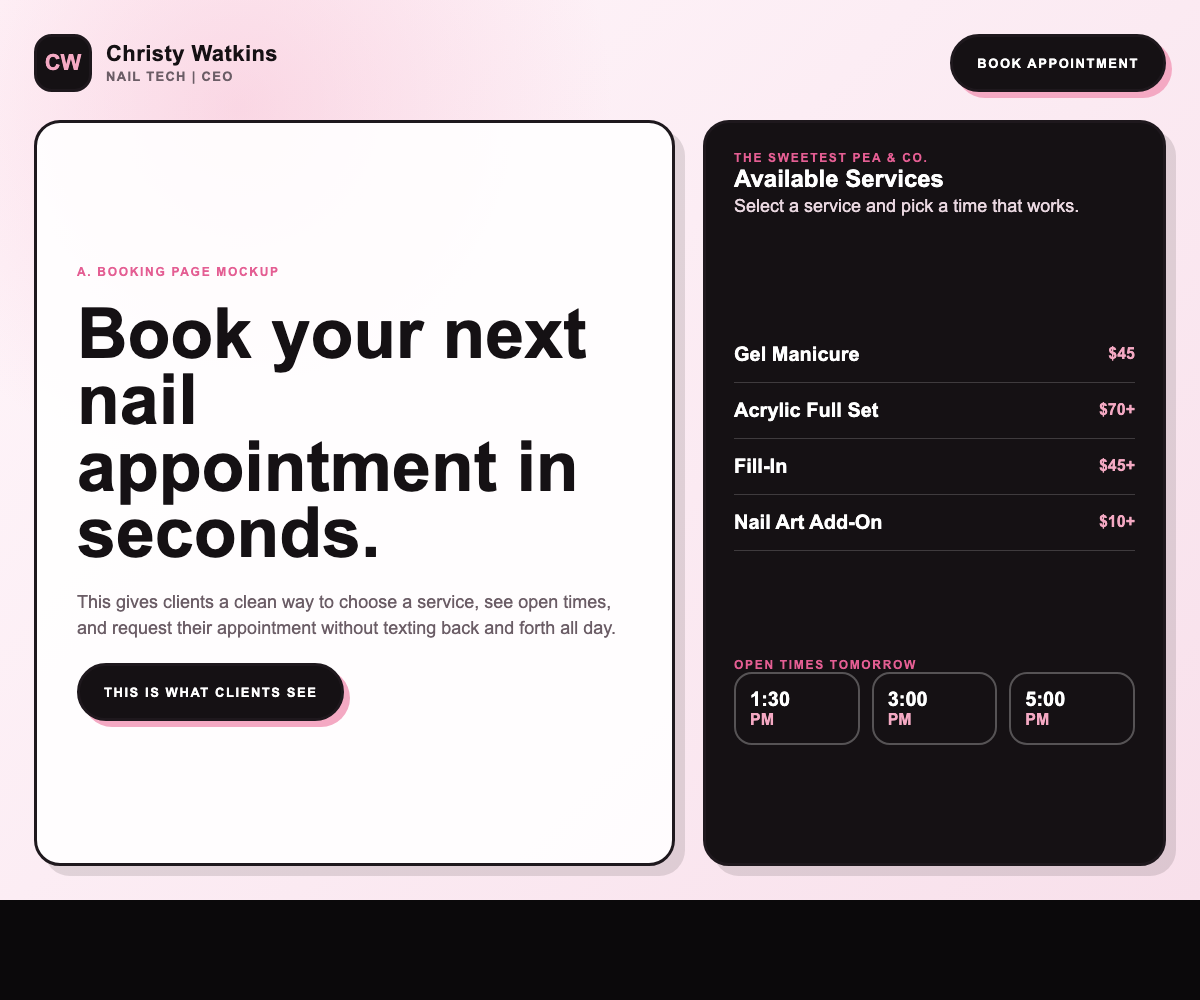
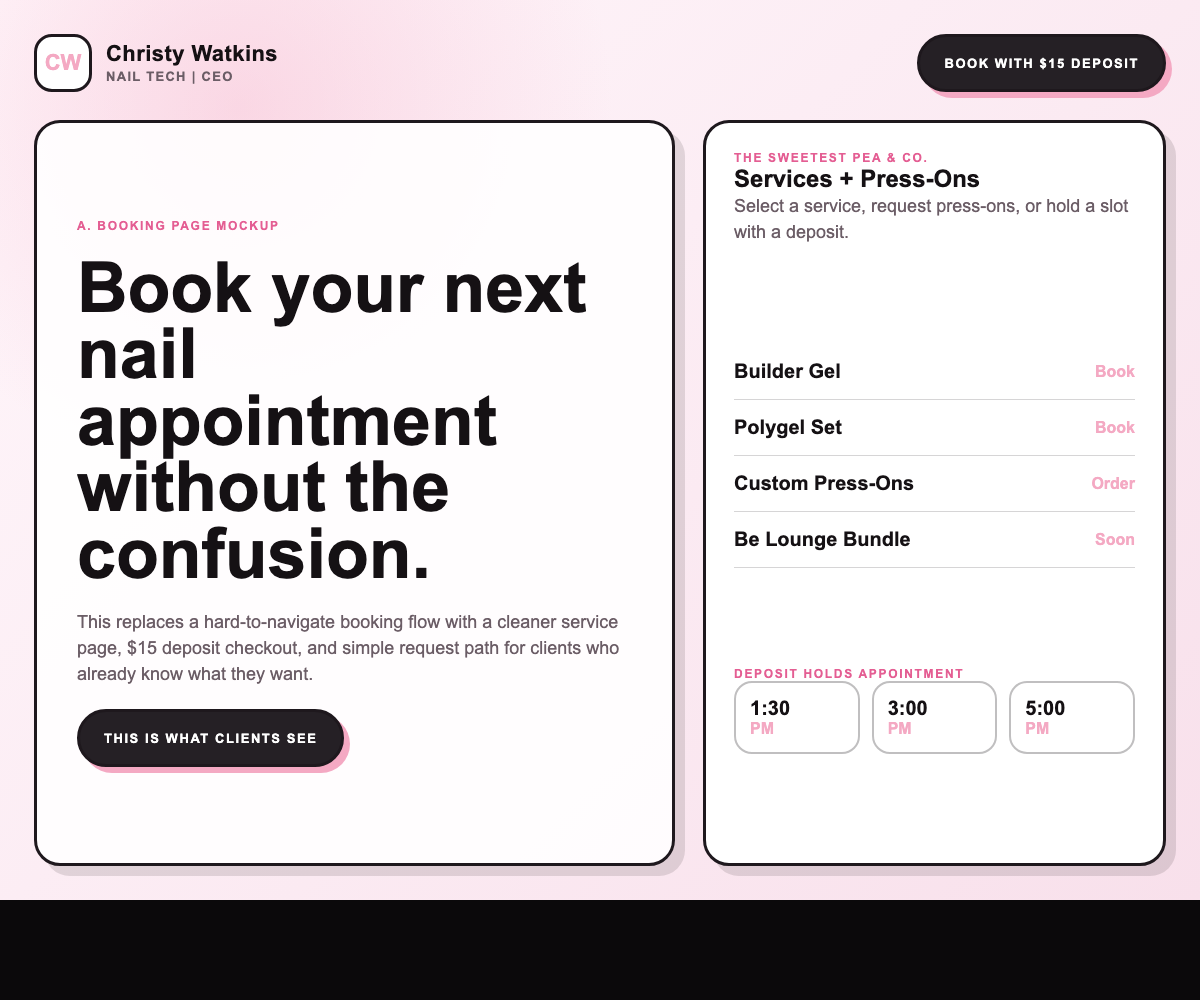
Refine Christy nail mockups for real offer

diff --git a/design-options/christy-nail-client-mockups.html b/design-options/christy-nail-client-mockups.html
@@ -15,6 +15,8 @@
         --paper: #fff8fb;
         --line: #1e181d;
         --muted: #6b5d66;
+        --powder: #d8c8ff;
+        --cream: #fffdf9;
       }
 
       * {
@@ -79,7 +81,7 @@
         height: 58px;
         border: 3px solid var(--line);
         border-radius: 18px;
-        background: var(--ink);
+        background: var(--white);
         color: var(--pink);
         font-size: 22px;
         font-weight: 900;
@@ -109,7 +111,7 @@
         padding: 0 24px;
         border: 3px solid var(--line);
         border-radius: 999px;
-        background: var(--ink);
+        background: var(--charcoal);
         color: var(--white);
         box-shadow: 6px 6px 0 var(--pink);
         font-size: 13px;
@@ -162,12 +164,12 @@
         display: grid;
         gap: 18px;
         padding: 28px;
-        background: var(--ink);
-        color: var(--white);
+        background: var(--white);
+        color: var(--ink);
       }
 
       .service-board p {
-        color: #ead8e1;
+        color: var(--muted);
       }
 
       .service-row,
@@ -177,7 +179,7 @@
         gap: 18px;
         align-items: center;
         padding: 16px 0;
-        border-bottom: 1px solid rgba(255, 255, 255, 0.18);
+        border-bottom: 1px solid rgba(30, 24, 29, 0.18);
       }
 
       .service-row strong,
@@ -200,7 +202,7 @@
       .slot {
         display: block;
         padding: 14px;
-        border: 2px solid rgba(255, 255, 255, 0.28);
+        border: 2px solid rgba(30, 24, 29, 0.28);
         border-radius: 18px;
       }
 
@@ -216,7 +218,8 @@
         padding: 24px;
         border: 5px solid var(--line);
         border-radius: 46px;
-        background: var(--charcoal);
+        background: #fdf7fb;
+        color: var(--ink);
         color: var(--white);
         box-shadow: 18px 18px 0 rgba(21, 17, 20, 0.22);
       }
@@ -226,7 +229,7 @@
         height: 24px;
         margin: 0 auto 28px;
         border-radius: 999px;
-        background: #0b090b;
+        background: var(--charcoal);
       }
 
       .chat {
@@ -250,7 +253,7 @@
 
       .bubble.ai {
         justify-self: end;
-        background: var(--pink);
+        background: var(--powder);
         color: var(--ink);
         font-weight: 800;
       }
@@ -359,22 +362,22 @@
     <section class="mockup booking">
       <header>
         <div class="brand">
-          <div class="brand-mark">CW</div>
+        <div class="brand-mark">CW</div>
           <div>
             <strong>Christy Watkins</strong>
             <span>Nail Tech | CEO</span>
           </div>
         </div>
-        <div class="button">Book Appointment</div>
+        <div class="button">Book With $15 Deposit</div>
       </header>
 
       <main class="booking-hero">
         <section class="booking-copy panel">
           <div class="eyebrow">A. Booking Page Mockup</div>
-          <h1>Book your next nail appointment in seconds.</h1>
+          <h1>Book your next nail appointment without the confusion.</h1>
           <p>
-            This gives clients a clean way to choose a service, see open times, and request their
-            appointment without texting back and forth all day.
+            This replaces a hard-to-navigate booking flow with a cleaner service page, $15 deposit
+            checkout, and simple request path for clients who already know what they want.
           </p>
           <div class="button">This is what clients see</div>
         </section>
@@ -382,17 +385,17 @@
         <aside class="service-board panel">
           <div>
             <div class="eyebrow">The Sweetest Pea & Co.</div>
-            <h2>Available Services</h2>
-            <p>Select a service and pick a time that works.</p>
+            <h2>Services + Press-Ons</h2>
+            <p>Select a service, request press-ons, or hold a slot with a deposit.</p>
           </div>
           <div>
-            <div class="service-row"><strong>Gel Manicure</strong><span>$45</span></div>
-            <div class="service-row"><strong>Acrylic Full Set</strong><span>$70+</span></div>
-            <div class="service-row"><strong>Fill-In</strong><span>$45+</span></div>
-            <div class="service-row"><strong>Nail Art Add-On</strong><span>$10+</span></div>
+            <div class="service-row"><strong>Builder Gel</strong><span>Book</span></div>
+            <div class="service-row"><strong>Polygel Set</strong><span>Book</span></div>
+            <div class="service-row"><strong>Custom Press-Ons</strong><span>Order</span></div>
+            <div class="service-row"><strong>Be Lounge Bundle</strong><span>Soon</span></div>
           </div>
           <div>
-            <div class="eyebrow">Open Times Tomorrow</div>
+            <div class="eyebrow">Deposit Holds Appointment</div>
             <div class="slots">
               <div class="slot"><strong>1:30</strong><br /><span>PM</span></div>
               <div class="slot"><strong>3:00</strong><br /><span>PM</span></div>
@@ -408,25 +411,25 @@
         <div class="phone-top"></div>
         <div class="chat">
           <div class="bubble client">Hi, do you have availability tomorrow?</div>
-          <div class="bubble ai">Yes! Christy has 3:00 PM and 5:00 PM open tomorrow. Which one works best?</div>
-          <div class="bubble client">5 works. Can I do acrylic with a simple design?</div>
-          <div class="bubble ai">Absolutely. I can hold 5:00 PM for an acrylic full set with simple nail art. Want me to book it?</div>
+          <div class="bubble ai">Yes! Christy has 3:00 PM and 5:00 PM open tomorrow. Builder Gel and Polygel are both available.</div>
+          <div class="bubble client">5 works. Can I do Polygel with a simple design?</div>
+          <div class="bubble ai">Absolutely. I can hold 5:00 PM with the $15 deposit and collect your design inspiration.</div>
           <div class="bubble client">Yes book it!</div>
-          <div class="bubble ai">You’re booked. You’ll get a confirmation with the address, service details, and reminder.</div>
+          <div class="bubble ai">Perfect. Here’s the deposit link and confirmation. Christy will approve the booking and you’ll get a reminder.</div>
         </div>
       </aside>
 
       <main class="reception-copy">
         <div class="eyebrow">B. AI Receptionist Example</div>
-        <h1>Less texting. More booked appointments.</h1>
+        <h1>Less DM confusion. More approved bookings.</h1>
         <p>
-          This shows how an AI receptionist can answer common questions, suggest available times,
-          collect details, and move clients toward booking while Christy stays focused on the work.
+          This shows how an AI receptionist can answer common questions, explain services, collect
+          design details, and move clients toward a deposit while Christy stays focused on the work.
         </p>
         <div class="proof-grid">
           <article class="proof-card panel"><span>Responds</span><strong>Answers availability questions fast.</strong></article>
-          <article class="proof-card panel"><span>Qualifies</span><strong>Collects service and design details.</strong></article>
-          <article class="proof-card panel"><span>Books</span><strong>Sends the client to the right next step.</strong></article>
+          <article class="proof-card panel"><span>Collects</span><strong>Service, style, sizing, and inspo details.</strong></article>
+          <article class="proof-card panel"><span>Converts</span><strong>Pushes clients to deposit and approval.</strong></article>
         </div>
       </main>
     </section>
@@ -436,8 +439,8 @@
         <div class="brand">
           <div class="brand-mark">SP</div>
           <div>
-            <strong>The Sweetest Pea & Co.</strong>
-            <span>Beauty booking system</span>
+          <strong>The Sweetest Pea & Co.</strong>
+          <span>Booking + press-on sales funnel</span>
           </div>
         </div>
         <div class="button">Clients click → get booked</div>
@@ -446,24 +449,24 @@
       <main class="funnel-body">
         <section class="funnel-copy">
           <div class="eyebrow">C. Instagram Lead Funnel</div>
-          <h1>Turn Instagram attention into booked nail clients.</h1>
+          <h1>Turn Instagram attention into bookings and press-on orders.</h1>
           <p>
             Instead of making people search, ask, wait, and forget, this flow moves them from post
-            to DM to booking link while their interest is still hot.
+            to DM to booking or press-on order while their interest is still hot.
           </p>
           <div class="flow-stack">
             <article class="flow-step panel"><span>01</span><strong>Client sees nail post or story.</strong></article>
-            <article class="flow-step panel"><span>02</span><strong>Client taps “Book” or sends a DM.</strong></article>
-            <article class="flow-step panel"><span>03</span><strong>Automation replies with service options and booking link.</strong></article>
-            <article class="flow-step panel"><span>04</span><strong>Appointment gets logged and Christy gets notified.</strong></article>
+            <article class="flow-step panel"><span>02</span><strong>Client chooses booking or custom press-ons.</strong></article>
+            <article class="flow-step panel"><span>03</span><strong>Automation collects service, sizing, date, and inspiration.</strong></article>
+            <article class="flow-step panel"><span>04</span><strong>Deposit/order gets logged and Christy gets notified.</strong></article>
           </div>
         </section>
 
         <aside class="instagram-card panel">
           <div class="post-preview" aria-hidden="true"></div>
           <div class="caption">
-            <strong>Fresh set openings this week 💅</strong>
-            <p>DM “BOOK” and I’ll send available times, service options, and the booking link.</p>
+            <strong>Builder Gel, Polygel, and custom press-ons 💅</strong>
+            <p>DM “BOOK” for appointments or “PRESS” for custom press-on sizing and style details.</p>
           </div>
         </aside>
       </main>

diff --git a/docs/sales/Christy-Nail-Business-Mockups.md b/docs/sales/Christy-Nail-Business-Mockups.md
@@ -7,6 +7,13 @@ Client context from conversation:
 - Role language: Nail Tech | CEO
 - Proposed package direction: Tier 2
 - Budget note: $250 path mentioned in proposal message
+- Services: Builder Gel, Polygel, press-ons
+- Current booking tool: Gloss Genius
+- Current pain: manual approval, too difficult for clients to navigate, cost too high for complexity
+- Deposit: $15 booking deposit
+- Revenue streams: in-person nail services and press-on sales
+- Marketing channels: Instagram, word of mouth, expanding to TikTok
+- Partnership: Be Lounge future bundles
 - Goal: send visuals that make the client see booking, texting, and Instagram lead flow as a real business system.
 
 ## Screenshots Created
@@ -34,13 +41,15 @@ Send these in this order:
 ## Suggested Text
 
 ```txt
-Hey Christy, I put together a few quick visuals so you can actually see how this would look and work for your business.
+Hey Christy, I put together a few quick visuals so you can actually see how this would work for your business.
 
-This is the real experience your clients would have: booking, texting, and moving from Instagram into an appointment.
+This is the real flow your clients would go through — from Instagram -> texting -> booking an appointment or starting a press-on order.
 
-I kept the pink beauty feel, but tightened the layout so the name, booking button, services, and client actions are easier to read.
+The goal here is simple: make it easier for people to book with you, pay the $15 deposit, and cut down the back-and-forth in your DMs.
 
-Let me know what you think. I can tweak the colors, wording, services, or photos to fit exactly how you want it.
+Most nail techs lose bookings just from slow replies, missed messages, or confusing booking steps — this fixes that.
+
+Take a look when you get a chance and let me know what stands out to you. If everything looks good, I can get this set up and ready to go for you by next week.
 ```
 
 ## What To Ask For Next

diff --git a/docs/project/Build-Queue.md b/docs/project/Build-Queue.md
@@ -271,7 +271,7 @@ Daily session:
 - [x] Installed project-level AIDesigner Codex config and documented remaining auth/session step.
 - [x] Created Upwork/Fiverr marketplace launch kit for Thurr Solutions service offers.
 - [x] Created marketplace portfolio sample HTML, screenshot, and PDF for Upwork/Fiverr proof.
-- [x] Created three sales-ready Christy nail business mockups: booking page, AI receptionist, and Instagram lead funnel.
+- [x] Updated Christy nail business mockups around the real offer: Builder Gel, Polygel, press-ons, Gloss Genius replacement, $15 deposits, and Be Lounge bundles.
 
 ## Next Task
 
